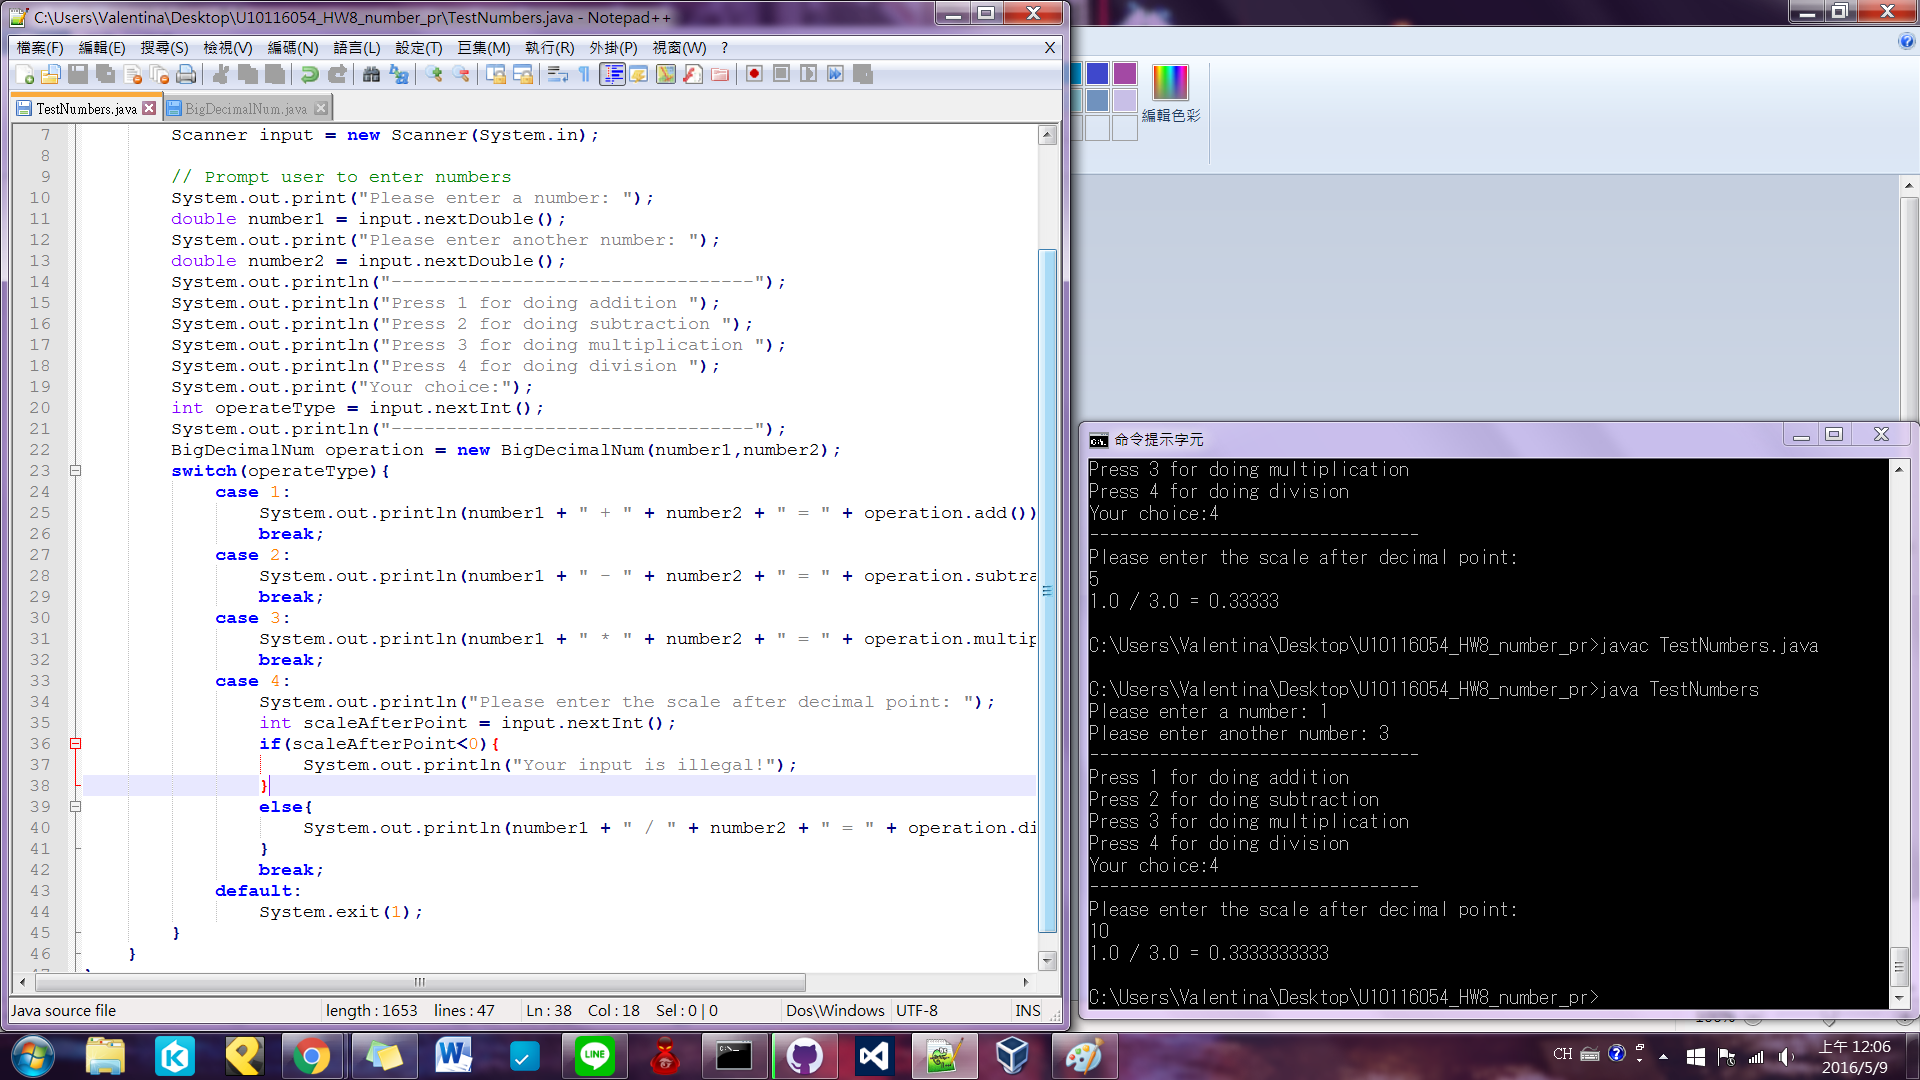
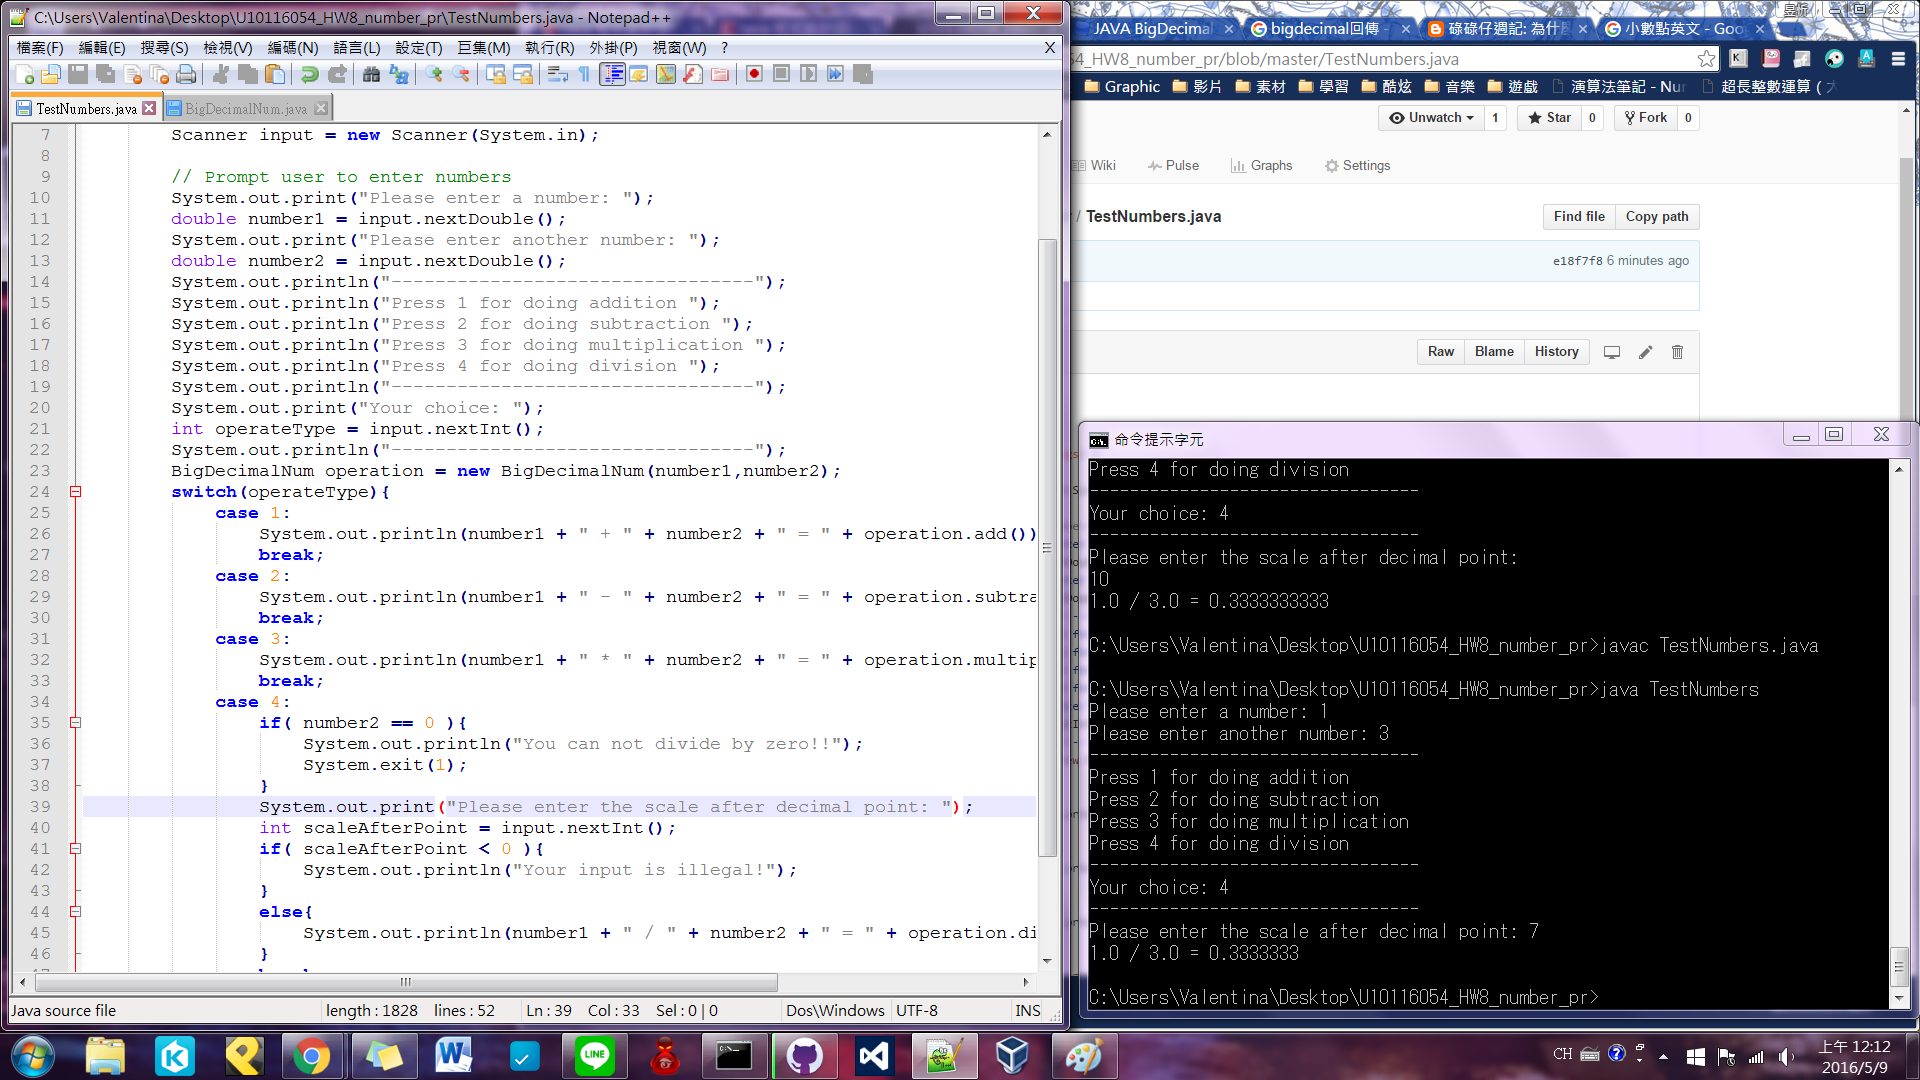
註解

diff --git a/TestNumbers.java b/TestNumbers.java
@@ -1,9 +1,9 @@
 // import java API
 import java.util.Scanner;
-import java.math.BigDecimal;
+
 public class TestNumbers {
 	public static void main(String[] args) {
-		// new object for scanner
+		// new an object for scanner
 		Scanner input = new Scanner(System.in);
 		
 		// Prompt user to enter numbers
@@ -11,37 +11,47 @@ public class TestNumbers {
 		double number1 = input.nextDouble();
 		System.out.print("Please enter another number: ");
 		double number2 = input.nextDouble();
+		
+		// choices of operation for users
 		System.out.println("---------------------------------");
 		System.out.println("Press 1 for doing addition ");
 		System.out.println("Press 2 for doing subtraction ");
 		System.out.println("Press 3 for doing multiplication ");
 		System.out.println("Press 4 for doing division ");
 		System.out.println("---------------------------------");
+		
+		// scanner the options
 		System.out.print("Your choice: ");
 		int operateType = input.nextInt();
 		System.out.println("---------------------------------");
+		
+		// create an object for BigDecimalNum class
 		BigDecimalNum operation = new BigDecimalNum(number1,number2);
+		
+		/* switchs for operation*/
 		switch(operateType){
-			case 1:
+			case 1: // add
 				System.out.println(number1 + " + " + number2 + " = " + operation.add());
 				break;
-			case 2:
+			case 2:	// subtract
 				System.out.println(number1 + " - " + number2 + " = " + operation.subtract());
 				break;
-			case 3:
+			case 3:	// multiply
 				System.out.println(number1 + " * " + number2 + " = " + operation.multiply());
 				break;
-			case 4:
-				if( number2 == 0 ){
+			case 4:	// divide
+				if( number2 == 0 ){	// if dividend is equal to zero, can not doing operation
 					System.out.println("You can not divide by zero!!");
 					System.exit(1);
 				}
+				
+				// to make it more precise, scan the scale from user input
 				System.out.print("Please enter the scale after decimal point: ");
 				int scaleAfterPoint = input.nextInt();
-				if( scaleAfterPoint < 0 ){
+				if( scaleAfterPoint < 0 ){	// illegal scale
 					System.out.println("Your input is illegal!");
 				}
-				else{
+				else{	// if scale is legal, show the answer
 					System.out.println(number1 + " / " + number2 + " = " + operation.divide(scaleAfterPoint));
 				}
 				break;
